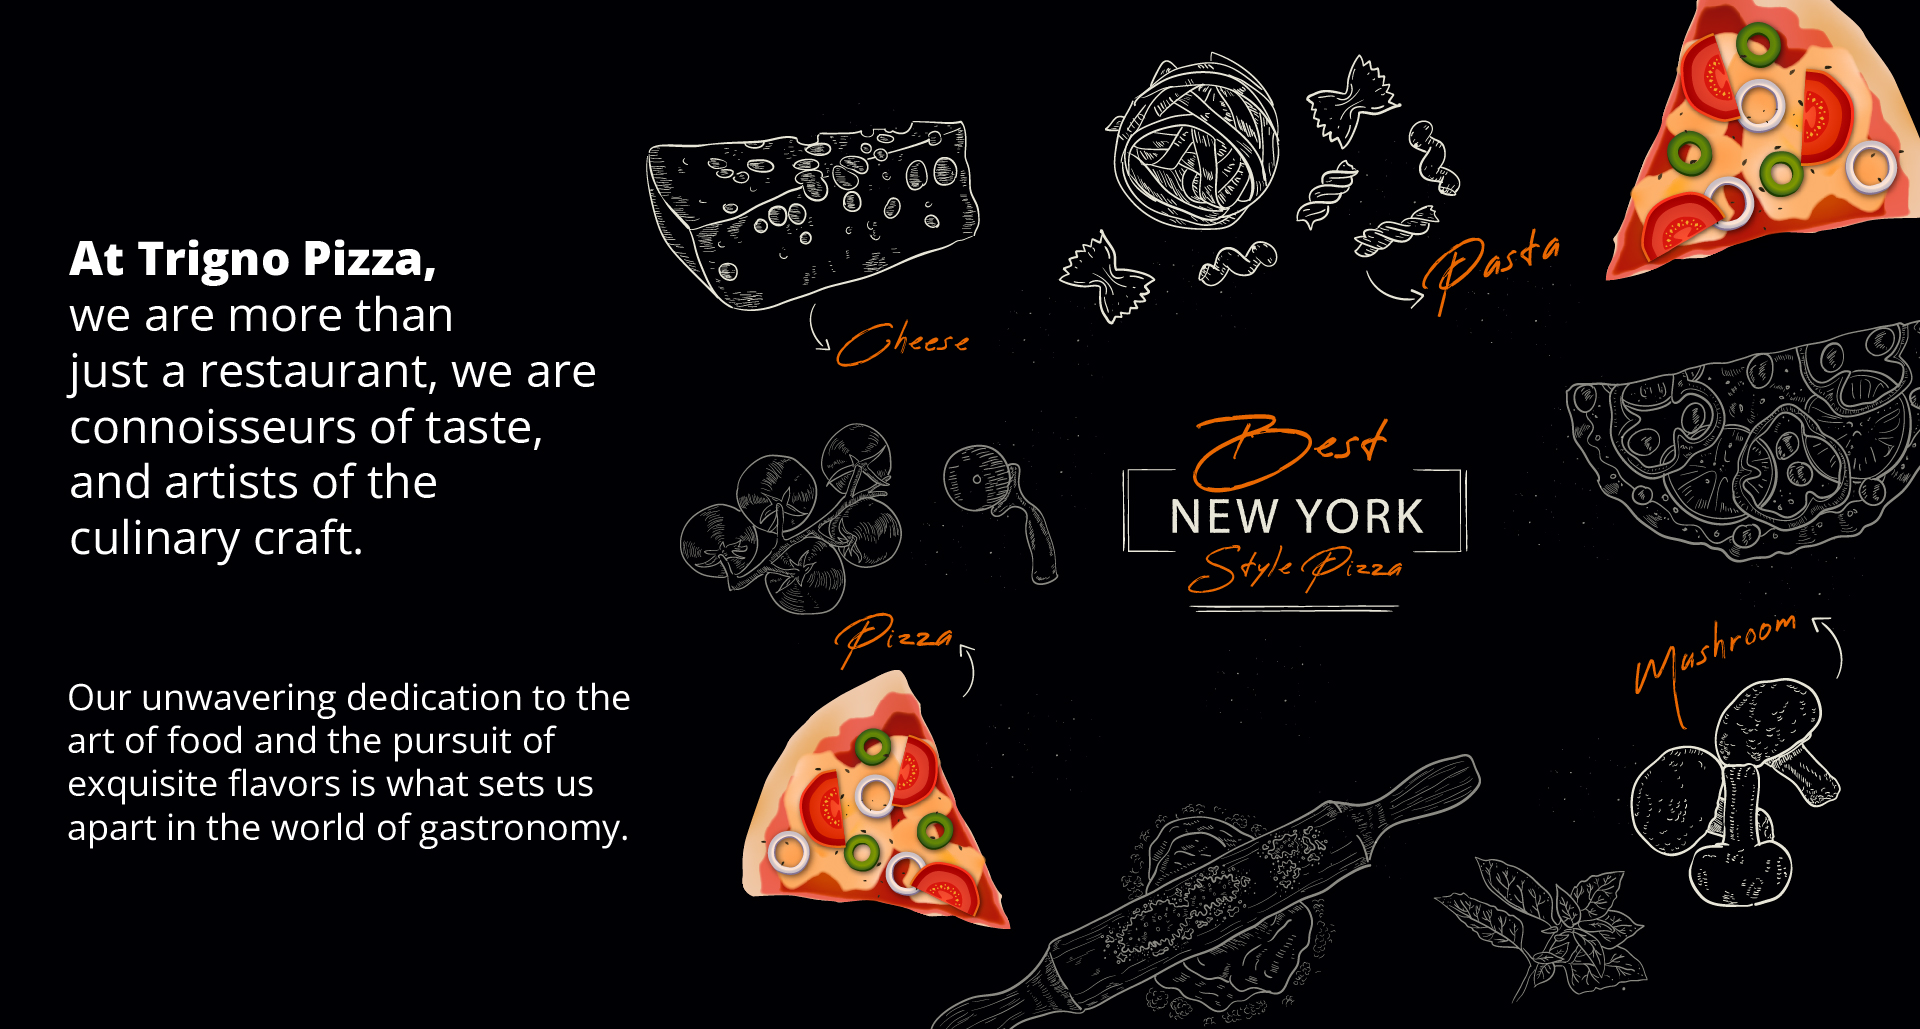
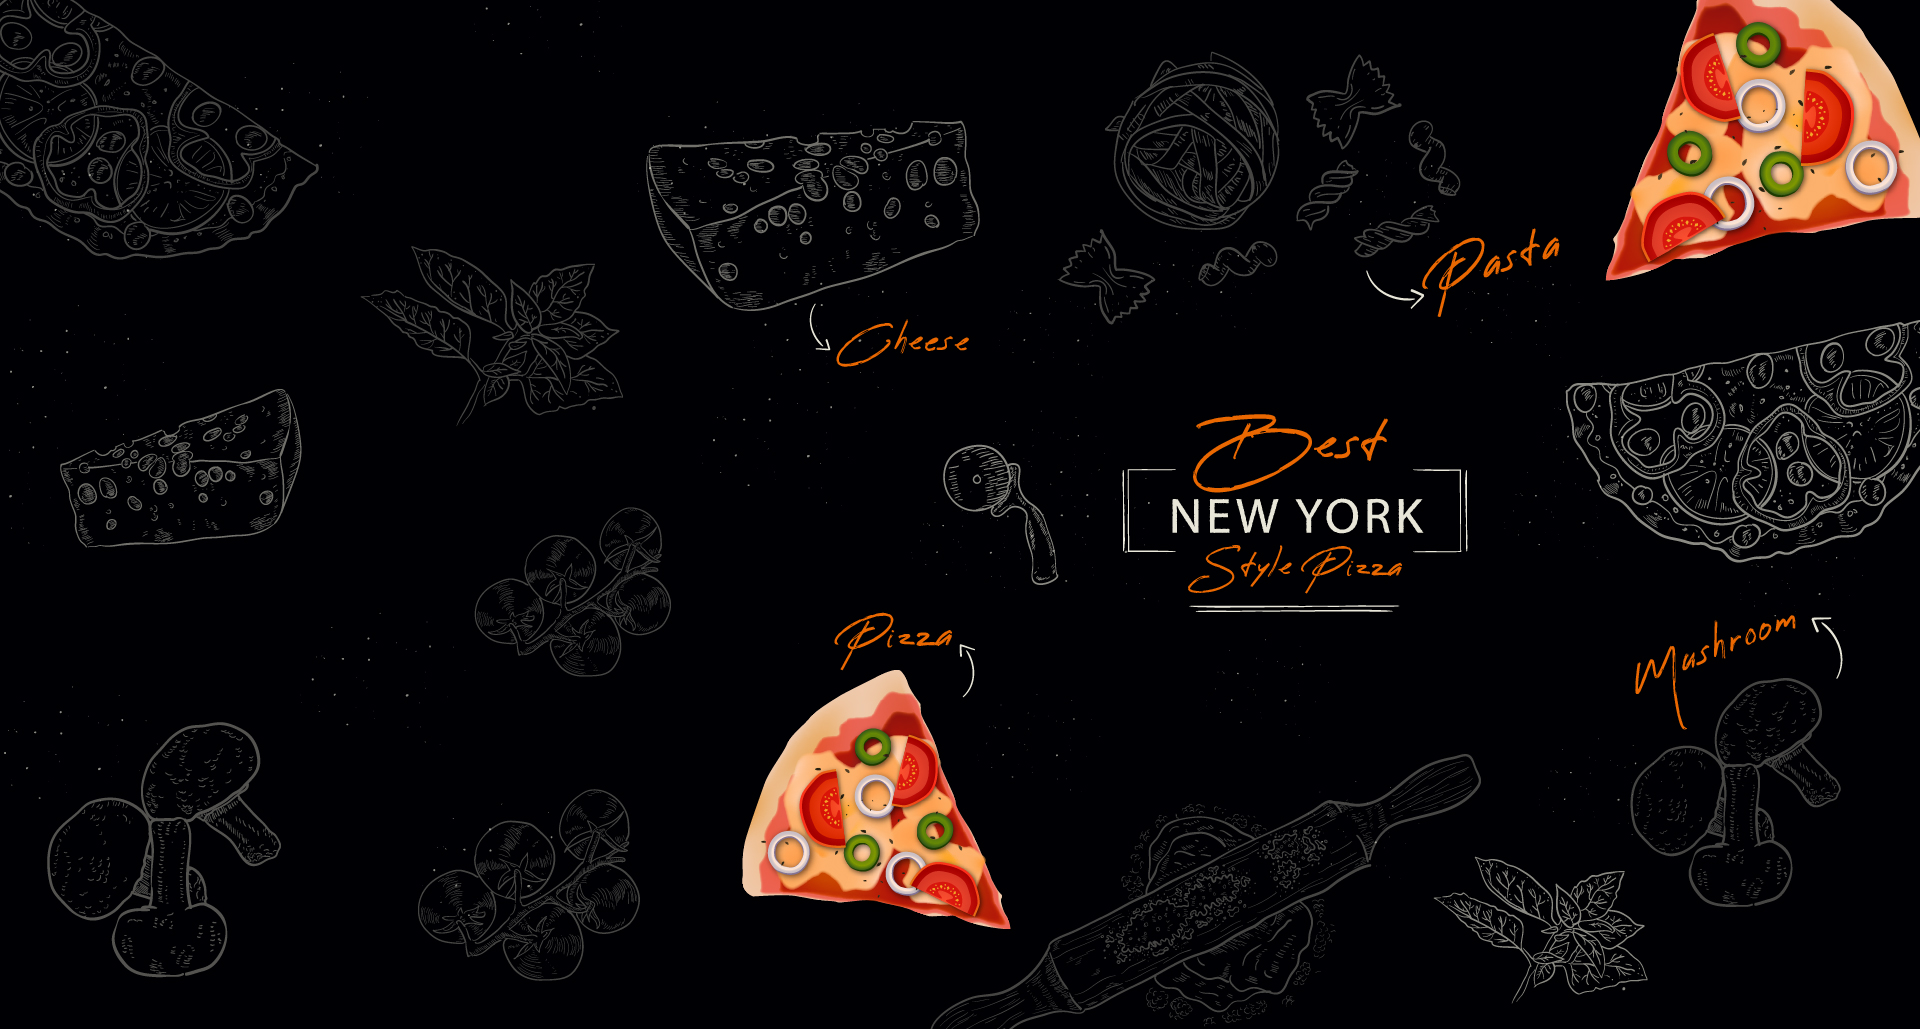
all change

diff --git a/assets/css/burger2.css b/assets/css/burger2.css
@@ -1137,7 +1137,7 @@ html {
 	}
 }
 #Header_wrapper, #Intro {
-	background-color: #0d040a;
+	background-color: #060009;
 }
 #Subheader {
 	background-color: rgba(247, 247, 247, 1);
@@ -1155,13 +1155,13 @@ html {
 	border-top-color: #545454;
 }
 #Footer {
-	background-color: #241b15;
+	background-color: #060009;
 }
 body, ul.timeline_items, .icon_box a .desc, .icon_box a:hover .desc, .feature_list ul li a, .list_item a, .list_item a:hover, .widget_recent_entries ul li a, .flat_box a, .flat_box a:hover, .story_box .desc, .content_slider.carouselul li a .title, .content_slider.flat.description ul li .desc, .content_slider.flat.description ul li a .desc, .post-nav.minimal a i {
-	color: #0d040a;
+	color: #532f17;
 }
 .post-nav.minimal a svg {
-	fill: #0d040a;
+	fill: #532f17;
 }
 .themecolor, .opening_hours .opening_hours_wrapper li span, .fancy_heading_icon .icon_top, .fancy_heading_arrows .icon-right-dir, .fancy_heading_arrows .icon-left-dir, .fancy_heading_line .title, .button-love a.mfn-love, .format-link .post-title .icon-link, .pager-single>span, .pager-single a:hover, .widget_meta ul, .widget_pages ul, .widget_rss ul, .widget_mfn_recent_comments ul li:after, .widget_archive ul, .widget_recent_comments ul li:after, .widget_nav_menu ul, .woocommerce ul.products li.product .price, .shop_slider .shop_slider_ul li .item_wrapper .price, .woocommerce-page ul.products li.product .price, .widget_price_filter .price_label .from, .widget_price_filter .price_label .to, .woocommerce ul.product_list_widget li .quantity .amount, .woocommerce .product div.entry-summary .price, .woocommerce .star-rating span, #Error_404 .error_pic i, .style-simple #Filters .filters_wrapper ul li a:hover, .style-simple #Filters .filters_wrapper ul li.current-cat a, .style-simple .quick_fact .title {
 	color: #ec6703;
@@ -1190,22 +1190,22 @@ a:hover {
 	color: #a8a8a8;
 }
 h1, h1 a, h1 a:hover, .text-logo #logo {
-	color: #0d040a;
+	color: #532f17;
 }
 h2, h2 a, h2 a:hover {
-	color: #0d040a;
+	color: #532f17;
 }
 h3, h3 a, h3 a:hover {
-	color: #0d040a;
+	color: #532f17;
 }
 h4, h4 a, h4 a:hover, .style-simple .sliding_box .desc_wrapper h4 {
-	color: #0d040a;
+	color: #532f17;
 }
 h5, h5 a, h5 a:hover {
-	color: #0d040a;
+	color: #532f17;
 }
 h6, h6 a, h6 a:hover, a.content_link .title {
-	color: #0d040a;
+	color: #532f17;
 }
 .dropcap, .highlight:not(.highlight_image) {
 	background-color: #0095eb;
@@ -1292,10 +1292,10 @@ a.mfn-link-6:before {
 	}
 }
 #Header .top_bar_left, .header-classic #Top_bar, .header-plain #Top_bar, .header-stack #Top_bar, .header-split #Top_bar, .header-fixed #Top_bar, .header-below #Top_bar, #Header_creative, #Top_bar #menu, .sticky-tb-color #Top_bar.is-sticky {
-	background-color: #0d040a;
+	background-color: #060009;
 }
 #Top_bar .wpml-languages a.active, #Top_bar .wpml-languages ul.wpml-lang-dropdown {
-	background-color: #0d040a;
+	background-color: #060009;
 }
 #Top_bar .top_bar_right:before {
 	background-color: #e3e3e3;
@@ -1439,13 +1439,13 @@ a.action_button {
 }
 a#back_to_top.button.button_js, #popup_contact>a.button {
 	color: #ffffff;
-	background: #241b15;
+	background: #ec6703;
 }
 .button-stroke #back_to_top, .button-stroke #popup_contact>.button {
-	border-color: #241b15;
+	border-color: #ec6703;
 }
 .button-stroke #back_to_top:hover, .button-stroke #popup_contact>.button:hover {
-	background-color: #241b15 !important;
+	background-color: #ec6703 !important;
 }
 #Sliding-top, #Sliding-top .widget_recent_entries ul li a {
 	color: #cccccc;
@@ -1578,29 +1578,29 @@ body.table-hover:not(.woocommerce-page) table tr:hover td {
 	background: #0095eb;
 }
 input[type="date"], input[type="email"], input[type="number"], input[type="password"], input[type="search"], input[type="tel"], input[type="text"], input[type="url"], select, textarea, .woocommerce .quantity input.qty, .dark input[type="email"], .dark input[type="password"], .dark input[type="tel"], .dark input[type="text"], .dark select, .dark textarea {
-	color: #0d040a;
+	color: #532f17;
 	background-color: rgba(228, 215, 197, 1);
 	border-color: #EBEBEB;
 }
 ::-webkit-input-placeholder {
-	color: #0d040a;
+	color: #532f17;
 }
 ::-moz-placeholder {
-	color: #0d040a;
+	color: #532f17;
 }
 :-ms-input-placeholder {
-	color: #0d040a;
+	color: #532f17;
 }
 input[type="date"]:focus, input[type="email"]:focus, input[type="number"]:focus, input[type="password"]:focus, input[type="search"]:focus, input[type="tel"]:focus, input[type="text"]:focus, input[type="url"]:focus, select:focus, textarea:focus {
-	color: #0d040a;
+	color: #532f17;
 	background-color: rgba(228, 215, 197, 1) !important;
 	border-color: #d5e5ee;
 }
 :focus::-webkit-input-placeholder {
-	color: #0d040a;
+	color: #532f17;
 }
 :focus::-moz-placeholder {
-	color: #0d040a;
+	color: #532f17;
 }
 .woocommerce span.onsale, .shop_slider .shop_slider_ul li .item_wrapper span.onsale {
 	border-top-color: #4ea121 !important;
@@ -1615,7 +1615,7 @@ input[type="date"]:focus, input[type="email"]:focus, input[type="number"]:focus,
 }
 @media only screen and (max-width: 767px) {
 	#Top_bar {
-		background-color: #0d040a !important;
+		background-color: #060009 !important;
 	}
 	#Action_bar {
 		background-color: #FFFFFF !important;

diff --git a/index.html b/index.html
@@ -89,7 +89,7 @@
                                             </li>
                                             <li>
                                                 <a href="contact.html">Contact Us</a>
-                                                
+
                                             </li>
                                             <li>
                                                 <a target="_blank" href="http://bit.ly/1M6lijQ"><span><span
@@ -275,16 +275,20 @@
                                 <div class="wrap mcb-wrap one-second valign-top clearfix">
                                     <div class="mcb-wrap-inner">
                                         <div class="column mcb-column one column_column">
-                                            <div class="column_attr clearfix">
-                                                <h2>Since from the start, we thrive to bring you the
-
-                                                    <b>Best BBQ </b> experience.
+                                            <div class="column_attr clearfix" style="color: white;">
+                                                <h2 style="color: white;">At <b>Trigno Pizza</b>,
+                                                    we are more than
+                                                    just a restaurant, we are
+                                                    connoisseurs of taste,
+                                                    and artists of the
+                                                    culinary craft.
                                                 </h2>
                                                 <hr class="no_line" style="margin:0 auto 10px">
                                                 <p style="text-align: justify; font-size: 20px; ">
-                                                    An exceptional barbeque style of cooking.
-                                                    A unique way to mix flavors, ingredients,
-                                                    and techniques to bring you the best of dishes around you.
+                                                    Our unwavering dedication to the
+                                                    art of food and the pursuit of
+                                                    exquisite flavors is what sets us
+                                                    apart in the world of gastronomy.
                                                 </p>
                                             </div>
                                         </div>
